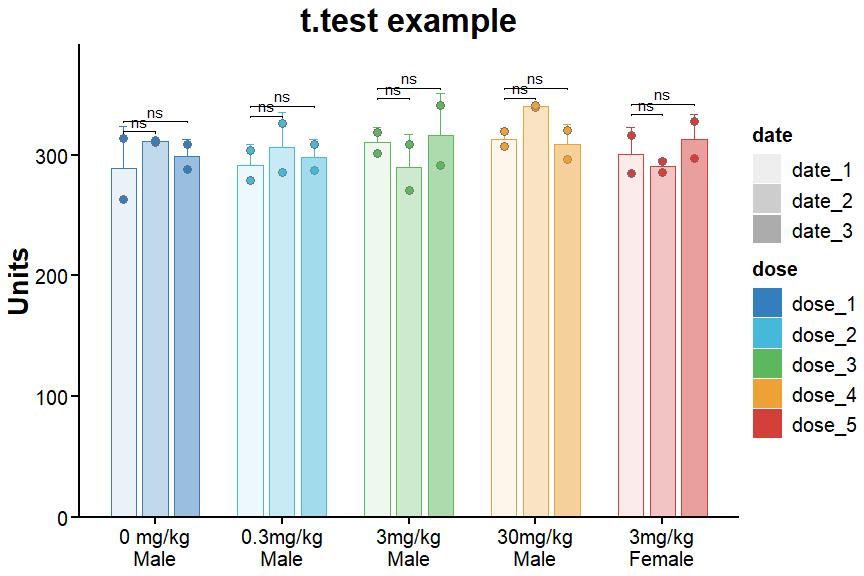
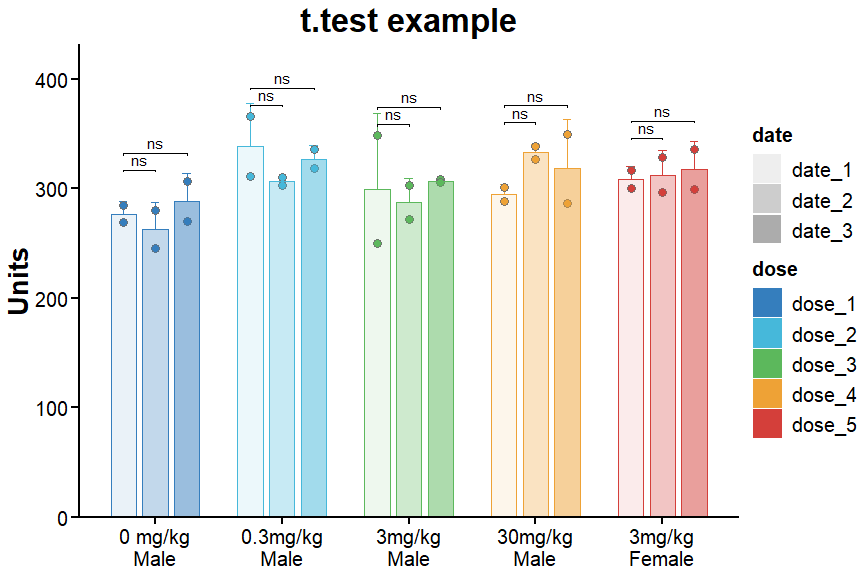
update-2

diff --git a/_posts/2024-02-18-group-pvalue-calculation-and-visualization.md b/_posts/2024-02-18-group-pvalue-calculation-and-visualization.md
@@ -22,6 +22,10 @@ output:
 
 # 1. Get example data
 
+``` r
+library(tidyverse)
+```
+
     ## ── Attaching core tidyverse packages ──────────────────────── tidyverse 2.0.0 ──
     ## ✔ dplyr     1.1.2     ✔ readr     2.1.5
     ## ✔ forcats   1.0.0     ✔ stringr   1.5.1
@@ -32,28 +36,46 @@ output:
     ## ✖ dplyr::filter() masks stats::filter()
     ## ✖ dplyr::lag()    masks stats::lag()
     ## ℹ Use the conflicted package (<http://conflicted.r-lib.org/>) to force all conflicts to become errors
+
+``` r
+library(rstatix)
+```
+
     ## 
     ## 载入程辑包：'rstatix'
-    ## 
     ## 
     ## The following object is masked from 'package:stats':
     ## 
     ##     filter
 
+``` r
+example <- 
+  tibble::tibble(
+  para = rnorm(n = 30, mean = 300, sd = 20) %>% round(digits = 2),
+  dose = rep(rep(c("dose_1", "dose_2", "dose_3", "dose_4", "dose_5"), each = 2), 3),
+  date = rep(c("date_1", "date_2", "date_3"), each = 10)) %>% 
+  group_by(dose, date) %>% 
+  mutate(mean = mean(para)) %>% 
+  mutate(sd = sd(para)) %>% 
+  mutate(cv = sd/mean)
+
+example
+```
+
     ## # A tibble: 30 × 6
     ## # Groups:   dose, date [15]
     ##     para dose   date    mean    sd     cv
     ##    <dbl> <chr>  <chr>  <dbl> <dbl>  <dbl>
-    ##  1  314. dose_1 date_1  289. 35.5  0.123 
-    ##  2  263. dose_1 date_1  289. 35.5  0.123 
-    ##  3  279. dose_2 date_1  291. 17.0  0.0584
-    ##  4  304. dose_2 date_1  291. 17.0  0.0584
-    ##  5  319. dose_3 date_1  310. 12.4  0.0400
-    ##  6  301. dose_3 date_1  310. 12.4  0.0400
-    ##  7  307. dose_4 date_1  313.  8.53 0.0272
-    ##  8  319. dose_4 date_1  313.  8.53 0.0272
-    ##  9  285. dose_5 date_1  300. 22.2  0.0739
-    ## 10  316. dose_5 date_1  300. 22.2  0.0739
+    ##  1  269. dose_1 date_1  277. 11.3  0.0409
+    ##  2  285. dose_1 date_1  277. 11.3  0.0409
+    ##  3  366. dose_2 date_1  339. 38.9  0.115 
+    ##  4  311. dose_2 date_1  339. 38.9  0.115 
+    ##  5  250. dose_3 date_1  299. 69.5  0.232 
+    ##  6  349. dose_3 date_1  299. 69.5  0.232 
+    ##  7  302. dose_4 date_1  295.  9.13 0.0309
+    ##  8  289. dose_4 date_1  295.  9.13 0.0309
+    ##  9  300. dose_5 date_1  308. 11.7  0.0380
+    ## 10  317. dose_5 date_1  308. 11.7  0.0380
     ## # ℹ 20 more rows
 
 ``` r
@@ -73,16 +95,16 @@ stat.test
     ## # A tibble: 10 × 11
     ##    dose   .y.   group1 group2    n1    n2 statistic    df     p p.adj
     ##    <chr>  <chr> <chr>  <chr>  <int> <int>     <dbl> <dbl> <dbl> <dbl>
-    ##  1 dose_1 value date_1 date_2     2     2    -0.906  1.00 0.531 1    
-    ##  2 dose_1 value date_1 date_3     2     2    -0.366  1.33 0.764 1    
-    ##  3 dose_2 value date_1 date_2     2     2    -0.613  1.61 0.615 1    
-    ##  4 dose_2 value date_1 date_3     2     2    -0.407  1.97 0.724 1    
-    ##  5 dose_3 value date_1 date_2     2     2     0.966  1.40 0.471 1    
-    ##  6 dose_3 value date_1 date_3     2     2    -0.238  1.25 0.845 1    
-    ##  7 dose_4 value date_1 date_2     2     2    -4.49   1.03 0.134 0.402
-    ##  8 dose_4 value date_1 date_3     2     2     0.349  1.47 0.77  0.77 
-    ##  9 dose_5 value date_1 date_2     2     2     0.622  1.16 0.634 1    
-    ## 10 dose_5 value date_1 date_3     2     2    -0.566  2.00 0.629 1    
+    ##  1 dose_1 value date_1 date_2     2     2     0.726  1.42 0.569 1    
+    ##  2 dose_1 value date_1 date_3     2     2    -0.594  1.38 0.635 1    
+    ##  3 dose_2 value date_1 date_2     2     2     1.17   1.03 0.446 0.892
+    ##  4 dose_2 value date_1 date_3     2     2     0.401  1.20 0.748 0.892
+    ##  5 dose_3 value date_1 date_2     2     2     0.227  1.19 0.853 1    
+    ##  6 dose_3 value date_1 date_3     2     2    -0.157  1.00 0.901 1    
+    ##  7 dose_4 value date_1 date_2     2     2    -4.41   1.97 0.049 0.148
+    ##  8 dose_4 value date_1 date_3     2     2    -0.729  1.08 0.591 1    
+    ##  9 dose_5 value date_1 date_2     2     2    -0.220  1.50 0.852 1    
+    ## 10 dose_5 value date_1 date_3     2     2    -0.473  1.39 0.7   1    
     ## # ℹ 1 more variable: p.adj.signif <chr>
 
 ``` r
@@ -96,16 +118,16 @@ stat.test
     ## # A tibble: 10 × 16
     ##    dose   .y.   group1 group2    n1    n2 statistic    df     p p.adj
     ##    <chr>  <chr> <chr>  <chr>  <int> <int>     <dbl> <dbl> <dbl> <dbl>
-    ##  1 dose_1 value date_1 date_2     2     2    -0.906  1.00 0.531 1    
-    ##  2 dose_1 value date_1 date_3     2     2    -0.366  1.33 0.764 1    
-    ##  3 dose_2 value date_1 date_2     2     2    -0.613  1.61 0.615 1    
-    ##  4 dose_2 value date_1 date_3     2     2    -0.407  1.97 0.724 1    
-    ##  5 dose_3 value date_1 date_2     2     2     0.966  1.40 0.471 1    
-    ##  6 dose_3 value date_1 date_3     2     2    -0.238  1.25 0.845 1    
-    ##  7 dose_4 value date_1 date_2     2     2    -4.49   1.03 0.134 0.402
-    ##  8 dose_4 value date_1 date_3     2     2     0.349  1.47 0.77  0.77 
-    ##  9 dose_5 value date_1 date_2     2     2     0.622  1.16 0.634 1    
-    ## 10 dose_5 value date_1 date_3     2     2    -0.566  2.00 0.629 1    
+    ##  1 dose_1 value date_1 date_2     2     2     0.726  1.42 0.569 1    
+    ##  2 dose_1 value date_1 date_3     2     2    -0.594  1.38 0.635 1    
+    ##  3 dose_2 value date_1 date_2     2     2     1.17   1.03 0.446 0.892
+    ##  4 dose_2 value date_1 date_3     2     2     0.401  1.20 0.748 0.892
+    ##  5 dose_3 value date_1 date_2     2     2     0.227  1.19 0.853 1    
+    ##  6 dose_3 value date_1 date_3     2     2    -0.157  1.00 0.901 1    
+    ##  7 dose_4 value date_1 date_2     2     2    -4.41   1.97 0.049 0.148
+    ##  8 dose_4 value date_1 date_3     2     2    -0.729  1.08 0.591 1    
+    ##  9 dose_5 value date_1 date_2     2     2    -0.220  1.50 0.852 1    
+    ## 10 dose_5 value date_1 date_3     2     2    -0.473  1.39 0.7   1    
     ## # ℹ 6 more variables: p.adj.signif <chr>, y.position <dbl>,
     ## #   groups <named list>, x <dbl>, xmin <dbl>, xmax <dbl>
 
@@ -148,17 +170,8 @@ ggplot(example, aes(x = dose, y = para, color = dose, fill = dose)) +
                                 "dose_5" = "3mg/kg\nFemale"))
 ```
 
-    ## Warning in geom_errorbar(aes(ymin = mean, ymax = mean + sd, alph = date), :
-    ## Ignoring unknown aesthetics: alph
+![](/img/2024-02-19/unnamed-chunk-4-1.png)
 
-    ## Warning in geom_point(aes(fil = date), shape = 21, size = 3, color = "gray44",
-    ## : Ignoring unknown aesthetics: fil
+## Reference
 
-    ## Warning: The `size` argument of `element_line()` is deprecated as of ggplot2 3.4.0.
-    ## ℹ Please use the `linewidth` argument instead.
-    ## This warning is displayed once every 8 hours.
-    ## Call `lifecycle::last_lifecycle_warnings()` to see where this warning was
-    ## generated.
-
-![](/img/2024-02-19/unnamed-chunk-4-1.png) \## Reference
 <https://www.datanovia.com/en/blog/how-to-add-p-values-onto-a-grouped-ggplot-using-the-ggpubr-r-package/>
